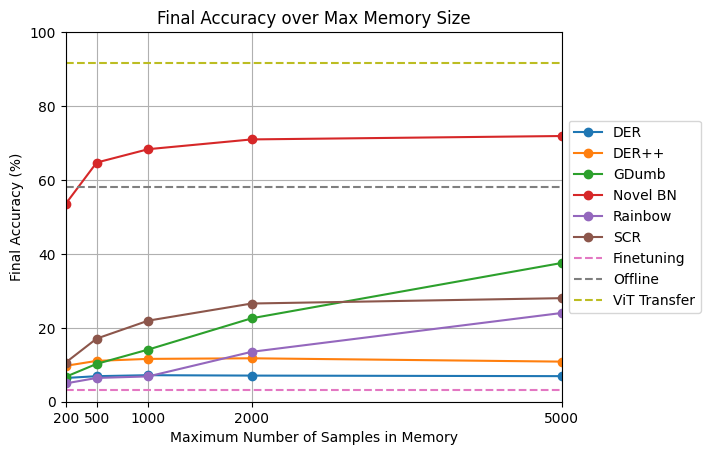
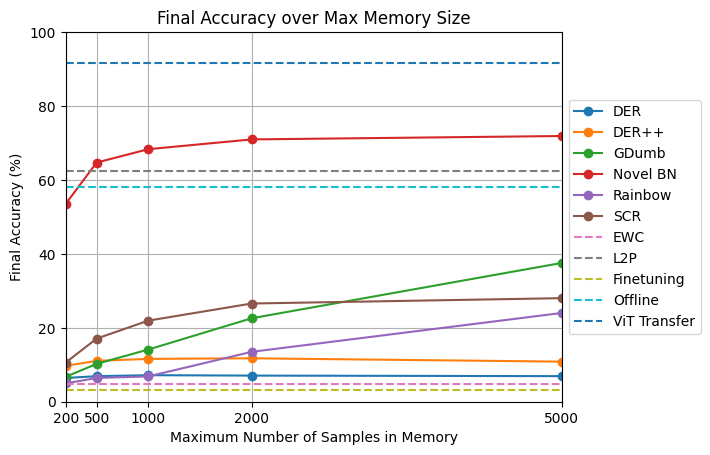
Updated graphs

diff --git a/Code/analysis/varied_sample_analysis.py b/Code/analysis/varied_sample_analysis.py
@@ -100,11 +100,15 @@ def plot_final_accuracy_over_size(by_size: Dict[int, Dict[str, TechniqueData]], 
 
     static_techniques = {
         "output_cifar100_varied_sorted": {
+            "EWC": np.array([0.0489]),
+            "L2P": np.array([0.6240]),
             "Finetuning": np.array([0.0328]),
             "Offline": np.array([0.5804, 0.5742, 0.5891, 0.5894, 0.5755]),
             "ViT Transfer": np.array([0.9167])
         },
         "output_cifar10_varied_sorted": {
+            "EWC": np.array([0.1613]),
+            "L2P": np.array([0.7560]),
             "Finetuning": np.array([0.1642]),
             "Offline": np.array([0.8995]),
             "ViT Transfer": np.array([0.9895])
@@ -128,7 +132,7 @@ def plot_final_accuracy_over_size(by_size: Dict[int, Dict[str, TechniqueData]], 
     
 
 def main():
-    parent_folder = "output_cifar100_varied_sorted"
+    parent_folder = "output_cifar10_varied_sorted"
     by_size = load_by_buffer_size(f"../{parent_folder}", [200, 500, 1000, 2000, 5000])
     fin_acc_over_size = plot_final_accuracy_over_size(by_size, parent_folder)
 
